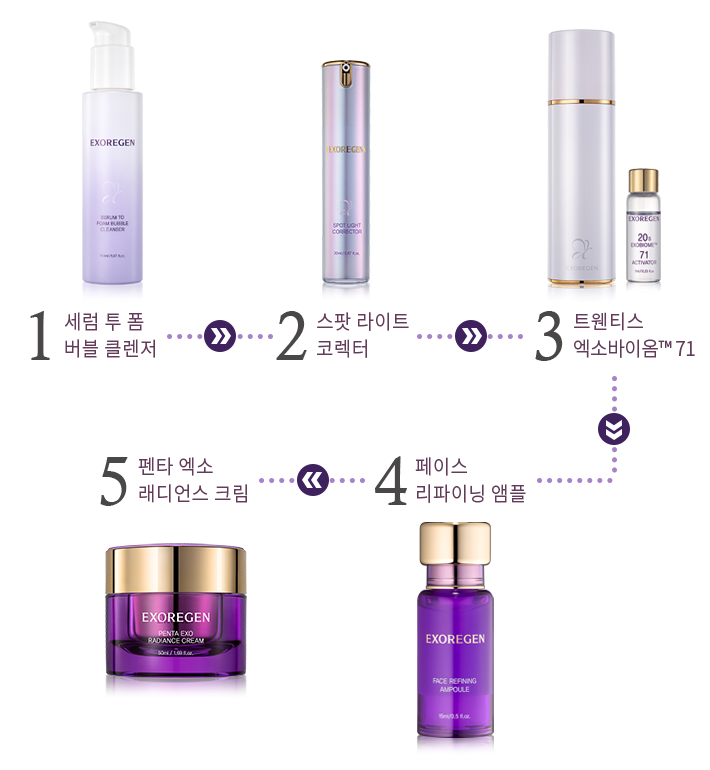
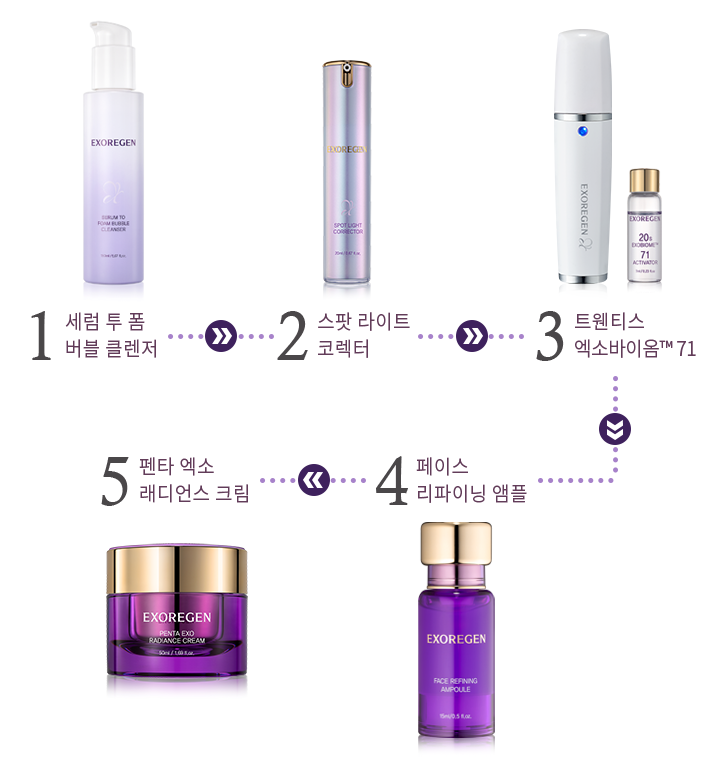
[MO/스킨케어순서] 트웬티스 엑소바이옴 미스트 제품 모델 변경건 관련 수정 작업

diff --git a/howtouse02.html b/howtouse02.html
@@ -283,7 +283,7 @@
                         </span>
                     </p>
                     <div class="cont-img">
-                        <img src="/img_/htu/htu-2.png" alt="">
+                        <img src="/img_/htu/htu-2.png?ver=230201" alt="">
                     </div>
                 </div>
                 <div class="cont cont3">
@@ -294,7 +294,7 @@
                         </span>
                     </p>
                     <div class="cont-img">
-                        <img src="/img_/htu/htu-3.png" alt="">
+                        <img src="/img_/htu/htu-3.png?ver=230201" alt="">
                     </div>
                 </div>
                 <div class="cont cont4">
@@ -315,7 +315,7 @@
                         </span>
                     </p>
                     <div class="cont-img">
-                        <img src="/img_/htu/htu-5.png" alt="">
+                        <img src="/img_/htu/htu-5.png?ver=230201" alt="">
                     </div>
                 </div>
             </article>
